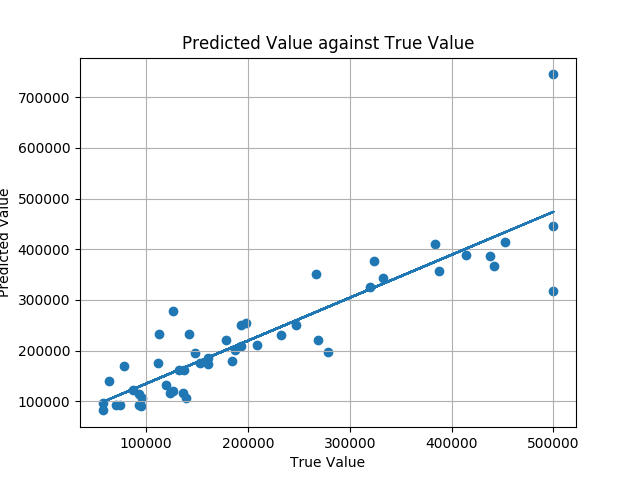
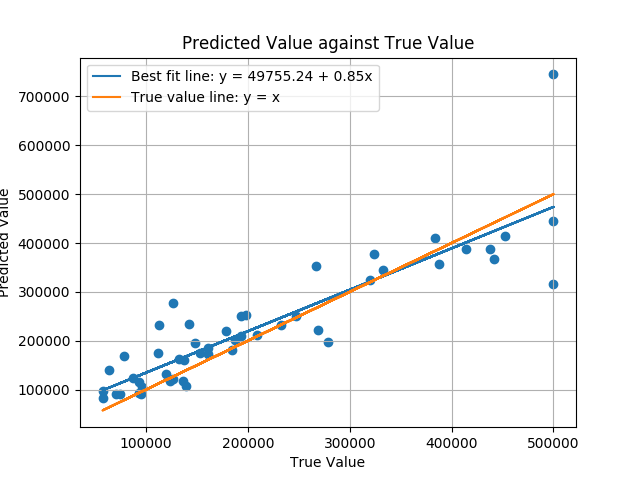
Turn off dropout at testing

diff --git a/Assignment1/start_project_1b.py b/Assignment1/start_project_1b.py
@@ -211,7 +211,11 @@ class CVRegressor():
     def test(self, X_test, Y_test):
         with tf.Session() as sess:
             self.saver.restore(sess, ".ckpt/1bmodel.ckpt")
-            feed_dict = {self.x: X_test, self.y_: Y_test}
+            if self.drop_out:
+                feed_dict = {self.x: X_test, self.y_: Y_test, self._keep_prob: 1.0}
+            else:
+                feed_dict = {self.x: X_test, self.y_: Y_test}
+
             test_error = self.error.eval(feed_dict)
         #end with
 
@@ -223,7 +227,10 @@ class CVRegressor():
         with tf.Session() as sess:
             self.saver.restore(sess, ".ckpt/1bmodel.ckpt")
 
-            feed_dict = {self.x: X}
+            if self.drop_out:
+                feed_dict = {self.x: X, self._keep_prob: 1.0}
+            else:
+                feed_dict = {self.x: X}               
             prediction = self.U.eval(feed_dict)
         #end with
 
@@ -269,7 +276,7 @@ def best_fit(X, Y):
 
     print('best fit line:\ny = {:.2f} + {:.2f}x'.format(a, b))
 
-    return a, b
+    return a, b, 'y = {:.2f} + {:.2f}x'.format(a, b)
 #end def
 
 
@@ -300,61 +307,64 @@ def main():
     Y_predict, Y_true = regressor.predict(X_test[idx]), Y_test[idx]
     Y_predict = [l[0] for l in Y_predict]
     Y_true = [l[0] for l in Y_true]
-    a, b = best_fit(Y_true, Y_predict)
+    a, b, eqn = best_fit(Y_true, Y_predict)
     # plot points and fit line
     plt.figure('Predicted Value against True Value')
     plt.title('Predicted Value against True Value')
     plt.scatter(Y_true, Y_predict)
     yfit = [a + b * xi for xi in Y_true]
-    plt.plot(Y_true, yfit)
+    fit = Y_true
+    plt.plot(Y_true, yfit, label = 'Best fit line: {}'.format(eqn))
+    plt.plot(Y_true, Y_true, label = 'True value line: {}'.format('y = x'))
+    plt.legend()
     plt.grid(b=True)
     plt.xlabel('True Value')
     plt.ylabel('Predicted Value')
     plt.savefig('figures/1b/1b_Predicted_against_True.png')
 
-    ########### Q2 Optimal Learning Rate ############
-    learning_rate_list = [10**(-10), 10**(-9), 0.5 * 10**(-8), 10**(-7), 0.5 * 10**(-6)]
+    # ########### Q2 Optimal Learning Rate ############
+    # learning_rate_list = [10**(-10), 10**(-9), 0.5 * 10**(-8), 10**(-7), 0.5 * 10**(-6)]
 
-    CV_list = []
-    time_taken_one_epoch_list = []
+    # CV_list = []
+    # time_taken_one_epoch_list = []
 
-    for learning_rate in learning_rate_list:
-        regressor = CVRegressor(features_dim=NUM_FEATURES, output_dim=1,
-                                hidden_layer_dict={1: 30}, learning_rate=learning_rate)
-        regressor = regressor.trainCV(trainX=X_train, trainY=Y_train, small=False)
-        CV_list.append(regressor.cv_err)
-        time_taken_one_epoch_list.append(regressor.time_taken_one_epoch)
-    #end for
+    # for learning_rate in learning_rate_list:
+    #     regressor = CVRegressor(features_dim=NUM_FEATURES, output_dim=1,
+    #                             hidden_layer_dict={1: 30}, learning_rate=learning_rate)
+    #     regressor = regressor.trainCV(trainX=X_train, trainY=Y_train, small=False)
+    #     CV_list.append(regressor.cv_err)
+    #     time_taken_one_epoch_list.append(regressor.time_taken_one_epoch)
+    # #end for
 
-    plt.figure('CV Error against Learning Rate')
-    plt.title('CV Error against Learning Rate')
-    plt.grid(b=True)
-    plt.xlabel('Learning Rate')
-    plt.ylabel('CV Error')
-    plt.xticks(np.arange(5), [str(l) for l in learning_rate_list])
-    plt.plot([str(l) for l in learning_rate_list], CV_list)
-    plt.savefig('figures/1b/2a_CV_error_against_learning_rate.png')
+    # plt.figure('CV Error against Learning Rate')
+    # plt.title('CV Error against Learning Rate')
+    # plt.grid(b=True)
+    # plt.xlabel('Learning Rate')
+    # plt.ylabel('CV Error')
+    # plt.xticks(np.arange(5), [str(l) for l in learning_rate_list])
+    # plt.plot([str(l) for l in learning_rate_list], CV_list)
+    # plt.savefig('figures/1b/2a_CV_error_against_learning_rate.png')
 
-    # Plot Time Taken for One Epoch
-    plt.figure("Time Taken for One Epoch against Learning Rate")
-    plt.title("Time Taken for One Epoch against Learning Rate")
-    plt.xlabel('Learning Rate')
-    plt.ylabel('Time/ms')
-    plt.xticks(np.arange(5), [str(l) for l in learning_rate_list])
-    plt.plot([str(l) for l in learning_rate_list], time_taken_one_epoch_list)
-    plt.grid(b=True)
-    plt.savefig('figures/1b/2b_time_taken_for_one_epoch_vs_learning_rate.png')
+    # # Plot Time Taken for One Epoch
+    # plt.figure("Time Taken for One Epoch against Learning Rate")
+    # plt.title("Time Taken for One Epoch against Learning Rate")
+    # plt.xlabel('Learning Rate')
+    # plt.ylabel('Time/ms')
+    # plt.xticks(np.arange(5), [str(l) for l in learning_rate_list])
+    # plt.plot([str(l) for l in learning_rate_list], time_taken_one_epoch_list)
+    # plt.grid(b=True)
+    # plt.savefig('figures/1b/2b_time_taken_for_one_epoch_vs_learning_rate.png')
 
 
-    print("="*50)
-    print("="*25 + "Results" + "="*25 )
-    print("="*50)
-    for i in range(len(learning_rate_list)):
-        print('Learning Rate: {}'.format(learning_rate_list[i]))
-        print('CV error: {}'.format(CV_list[i]))
-        print('Time per epoch: {}ms'.format(time_taken_one_epoch_list[i]))
-        print('-'*50)
-    #end for
+    # print("="*50)
+    # print("="*25 + "Results" + "="*25 )
+    # print("="*50)
+    # for i in range(len(learning_rate_list)):
+    #     print('Learning Rate: {}'.format(learning_rate_list[i]))
+    #     print('CV error: {}'.format(CV_list[i]))
+    #     print('Time per epoch: {}ms'.format(time_taken_one_epoch_list[i]))
+    #     print('-'*50)
+    # #end for
 
     # # ==================================================
     # # =========================Results=========================
@@ -541,6 +551,13 @@ def main():
 
     # for i in range(len(state_list)):
     #     print("state list: {}, test_error: {}".format(state_list[i],test_error_list[i]))
+    # # state list: 3L w/o dp, test_error: 4523873280.0
+    # # state list: 3L w/ dp, test_error: 4526773248.0
+    # # state list: 4L w/o dp, test_error: 3021156864.0
+    # # state list: 4L w/ dp, test_error: 3602084864.0
+    # # state list: 5L w/o dp, test_error: 2649017856.0
+    # # state list: 5L w/ dp, test_error: 3052726528.0
+
 
     # # Plot Time Taken for One Epoch
     # plt.figure("Time Taken for One Epoch againt state")
@@ -568,32 +585,59 @@ def main():
     #     print('Test Error: {}'.format(test_error_list[i]))
     #     print('-'*50)
     # #end for
+    # # ==================================================
+    # # =========================Results=========================
+    # # ==================================================
+    # # State: 3L w/o dp
+    # # Time per epoch: 128.44493436813354ms
+    # # Test Error: 4523873280.0
+    # # --------------------------------------------------
+    # # State: 3L w/ dp
+    # # Time per epoch: 148.26585388183594ms
+    # # Test Error: 4634984448.0
+    # # --------------------------------------------------
+    # # State: 4L w/o dp
+    # # Time per epoch: 151.63497591018677ms
+    # # Test Error: 3021156864.0
+    # # --------------------------------------------------
+    # # State: 4L w/ dp
+    # # Time per epoch: 180.52647256851196ms
+    # # Test Error: 4204421376.0
+    # # --------------------------------------------------
+    # # State: 5L w/o dp
+    # # Time per epoch: 172.86687755584717ms
+    # # Test Error: 2649017856.0
+    # # --------------------------------------------------
+    # # State: 5L w/ dp
+    # # Time per epoch: 207.08342456817627ms
+    # # Test Error: 3618239488.0
+    # # --------------------------------------------------
     # ==================================================
     # =========================Results=========================
     # ==================================================
     # State: 3L w/o dp
-    # Time per epoch: 128.44493436813354ms
+    # Time per epoch: 137.84410953521729ms
     # Test Error: 4523873280.0
     # --------------------------------------------------
     # State: 3L w/ dp
-    # Time per epoch: 148.26585388183594ms
-    # Test Error: 4634984448.0
+    # Time per epoch: 171.21195077896118ms
+    # Test Error: 4526773248.0
     # --------------------------------------------------
     # State: 4L w/o dp
-    # Time per epoch: 151.63497591018677ms
+    # Time per epoch: 162.18966579437256ms
     # Test Error: 3021156864.0
     # --------------------------------------------------
     # State: 4L w/ dp
-    # Time per epoch: 180.52647256851196ms
-    # Test Error: 4204421376.0
+    # Time per epoch: 206.2958059310913ms
+    # Test Error: 3602084864.0
     # --------------------------------------------------
     # State: 5L w/o dp
-    # Time per epoch: 172.86687755584717ms
+    # Time per epoch: 183.60487985610962ms
     # Test Error: 2649017856.0
     # --------------------------------------------------
     # State: 5L w/ dp
-    # Time per epoch: 207.08342456817627ms
-    # Test Error: 3618239488.0
+    # Time per epoch: 239.46327114105225ms
+    # Test Error: 3052726528.0
     # --------------------------------------------------
 
 
